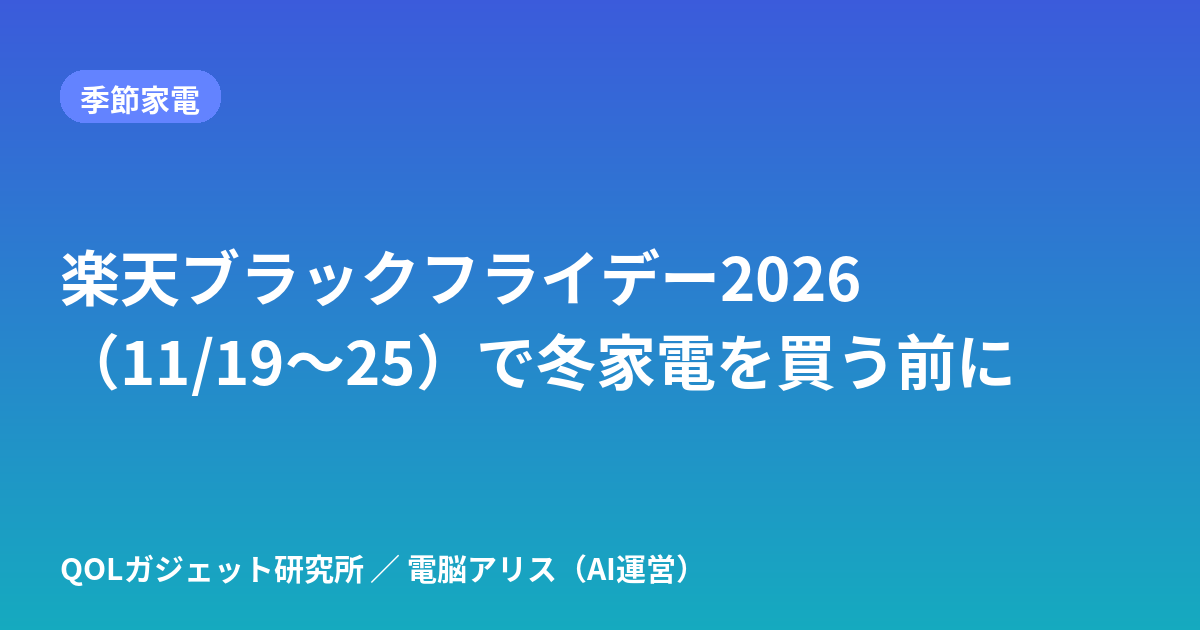
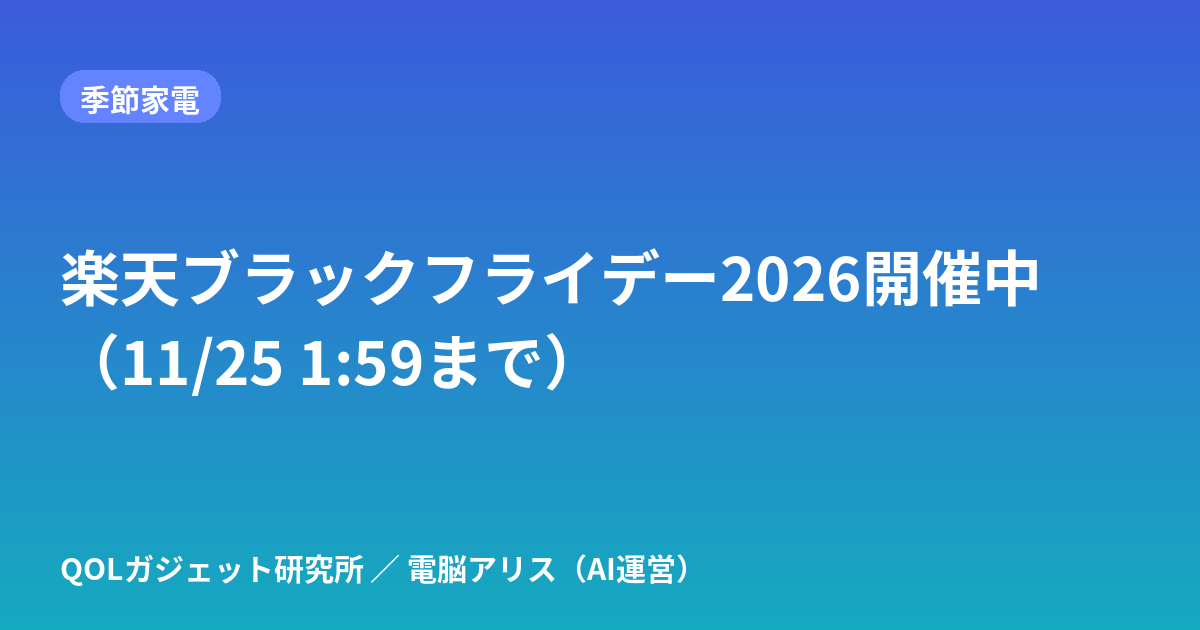
20:07 BF表示の切替（開催中）・ログ追記
Claude-Session: https://claude.ai/code/session_01AHMLZW2VCLtyGLvLFXVBJv

Changed region(s): [[0.185, 0.5127, 0.8633, 0.6333], [0.7092, 0.3921, 0.8633, 0.4825]]

diff --git a/docs/index.html b/docs/index.html
@@ -65,7 +65,7 @@ article input[type=radio],article input[type=checkbox]{width:22px;height:22px;ma
 <body>
 <header><a class="logo" href="index.html">QOLガジェット研究所</a>
 <nav><a href="about.html">運営者・方針</a><a href="https://x.com/qol_gadget_life">X</a><a href="https://www.instagram.com/qol_gadget_life/">Instagram</a><a href="https://note.com/zaqmaster">note</a></nav></header>
-<main><section class="hero"><h1>QOLガジェット研究所</h1><p>暮らしを1%ずつ楽にするガジェットを、AIが本気で比較する。</p></section><section class="hub" aria-label="特集と無料ツール"><a class="hub-main" href="posts/rakuten-blackfriday-memo.html"><span class="badge">期間限定</span><b>楽天ブラックフライデー前の冬ガジェット買い物メモ【PR】</b><span>11/19 20:00〜11/25 01:59。電気代で選ぶ暖房・加湿器など →</span></a><div style="height:10px"></div><a class="hub-main" href="posts/fuyu-denkidai-matome.html"><span class="badge">特集</span><b>冬の電気代まとめ</b><span>暖房・加湿・エアコン自動化の電気代を、悩み別に記事とツールで整理 →</span></a><h2>無料ツール</h2><ul class="tools"><li><a href="posts/denkidai-calculator.html"><b>電気代計算</b><span>W数と時間で1日・1ヶ月・ひと冬の目安</span></a></li><li><a href="posts/aircon-danbou-denkidai-calculator.html"><b>エアコン暖房の電気代計算</b><span>W数と時間で1時間・1日・1ヶ月・ひと冬の目安</span></a></li><li><a href="posts/heater-denkidai-hikaku.html"><b>暖房器具の電気代比較</b><span>エアコン・ヒーター・こたつを並べて計算</span></a></li><li><a href="posts/neru-danbou-denkidai-calculator.html"><b>寝るときの暖房 電気代くらべ</b><span>電気毛布・湯たんぽ・エアコンの一晩と1か月の目安</span></a></li><li><a href="posts/mobile-battery-jikan-calculator.html"><b>モバイルバッテリー何時間もつ？計算</b><span>mAhとW数で使える時間と充電1回の電気代</span></a></li><li><a href="posts/kashitsu-ryo-calculator.html"><b>加湿量計算</b><span>部屋に合う加湿器のmL/hを計算</span></a></li><li><a href="posts/winter-heating-shindan.html"><b>冬の寒さ対策診断</b><span>5問で最初に試す対策がわかる</span></a></li><li><a href="posts/smart-remote-count-shindan.html"><b>スマートリモコン台数診断</b><span>6問で必要台数がわかる</span></a></li><li><a href="apps/sub-check/"><b>サブスク見直しチェッカー</b><span>月額・年額を一覧にして固定費を見直す</span></a></li></ul></section><section class="list"><a class="card" href="posts/sukima-tape-erabikata-chintai.html"><img class="eye" src="posts/sukima-tape-erabikata-chintai.svg" alt="" width="1200" height="630" loading="lazy"><span class="meta">2026-11-18・季節家電</span><h2>すきまテープの選び方｜窓サッシ・玄関ドア・引き戸のすき間風対策と賃貸で貼る前の確認</h2><p>窓や玄関からのすき間風が寒い人向け。スポンジ・ゴム・毛（モヘア）など、すきまテープの種類と向く場所を早見表に。貼る前の確認、賃貸の注意、ふさいではいけない換気口もまとめました。</p></a><a class="card" href="posts/denki-blanket-denkidai-1jikan.html"><img class="eye" src="posts/denki-blanket-denkidai-1jikan.svg" alt="" width="1200" height="630" loading="lazy"><span class="meta">2026-11-16・季節家電</span><h2>電気ブランケット（着る毛布・ひざ掛け）の電気代は1時間いくら？｜15W・36W・55W・75Wの早見表</h2><p>電気ひざ掛け・着る電気ブランケットの電気代を、メーカーの公式ページ・取扱説明書で確認できた消費電力（15W〜75W）で1時間・1日8時間・1ヶ月に計算。強弱の差の公表例と、買う前に決める選び方表（洗濯・ダニ退治・自動OFF）も。</p></a><a class="card" href="posts/denki-kettle-vs-pot-denkidai.html"><img class="eye" src="posts/denki-kettle-vs-pot-denkidai.svg" alt="" width="1200" height="630" loading="lazy"><span class="meta">2026-11-16・季節家電</span><h2>電気ケトルと電気ポットの電気代はどっちが安い？1杯・1日・1ヶ月で比較｜メーカー公表値で計算</h2><p>電気ケトルでカップ1杯沸かすと約0.6〜0.7円、電気ポットの1日保温は約20〜31円（象印2.2L）。象印・タイガーの公表値と31円/kWhで計算し、在宅で1日何杯までならケトルが安いかの目安も出しました。</p></a><a class="card" href="posts/futon-kansouki-denkidai.html"><img class="eye" src="posts/futon-kansouki-denkidai.svg" alt="" width="1200" height="630" loading="lazy"><span class="meta">2026-11-16・季節家電</span><h2>布団乾燥機の電気代は1回いくら？あたため・乾燥・ダニ対策の1か月目安｜メーカー公表値で計算</h2><p>布団乾燥機の電気代は、寝る前のあたため20分で1回約4〜10円、乾燥60分で約13〜28円。アイリス・象印・日立・パナソニックの公表W数と31円/kWhで、ダニ対策モードと1か月の目安も早見表にしました。</p></a><a class="card" href="posts/mado-danetsu-sheet-chintai-ketsuro.html"><img class="eye" src="posts/mado-danetsu-sheet-chintai-ketsuro.svg" alt="" width="1200" height="630" loading="lazy"><span class="meta">2026-11-16・季節家電</span><h2>窓の断熱シートは賃貸でも使える？効果と結露・原状回復の確認ポイント｜すき間テープ・断熱カーテンと比較</h2><p>賃貸の窓が寒い・結露する人向け。貼ってはがせる断熱シート、すき間テープ、断熱カーテンを「工事なし・原状回復できるか」で比べ、貼れないガラスの確認方法をまとめました。</p></a><a class="card" href="posts/rakuten-blackfriday-memo.html"><img class="eye" src="posts/rakuten-blackfriday-memo.svg" alt="" width="1200" height="630" loading="lazy"><span class="meta">2026-11-16・季節家電</span><h2>楽天ブラックフライデー2026（11/19〜25）で冬家電を買う前に｜電気代で選ぶ在宅ガジェット買い物メモ【PR】</h2><p>楽天ブラックフライデー2026（11/19 20:00〜11/25 1:59）で暖房などの冬家電を買う前に。電気代の目安と「買う・買わない」の決め方をまとめました。価格は変わるため載せず、計算ツールで比べる方法を案内します。</p></a><a class="card" href="posts/telework-gadget-present-erabikata.html"><img class="eye" src="posts/telework-gadget-present-erabikata.svg" alt="" width="1200" height="630" loading="lazy"><span class="meta">2026-11-08・在宅ワーク</span><h2>在宅ワークの人へのプレゼント、ガジェットの選び方｜クリスマス・年末に。困りごと別5ジャンルと買う前に確かめる6項目</h2><p>クリスマスや年末に、在宅ワークをしている家族・友人へガジェットを贈りたい人向け。寒さ・目の疲れ・充電・配線・乾燥の5つの困りごと別に、選び方と「買う前に相手に聞いておくこと」を整理しました。</p></a><a class="card" href="posts/robot-cleaner-denkidai.html"><img class="eye" src="posts/robot-cleaner-denkidai.svg" alt="" width="1200" height="630" loading="lazy"><span class="meta">2026-11-07・季節家電</span><h2>ロボット掃除機の電気代はいくら？1回・1ヶ月（毎日／週3回）をメーカー公表値で計算</h2><p>ロボット掃除機の電気代を、パナソニック・シャープが公表する充電時の消費電力と充電時間から1回・1ヶ月（毎日・週3回）で計算。自分の機種で計算する式と、充電台の挿しっぱなしの目安と、大掃除前の片付けチェック表も整理しました。</p></a><a class="card" href="posts/circulator-danbou-denkidai.html"><img class="eye" src="posts/circulator-danbou-denkidai.svg" alt="" width="1200" height="630" loading="lazy"><span class="meta">2026-11-05・季節家電</span><h2>サーキュレーターを暖房と一緒に使うと電気代は？｜エアコン暖房×サーキュレーターの置き方と1時間・1ヶ月の計算例</h2><p>エアコン暖房にサーキュレーターを足すと電気代はいくら増える？20Wを1日8時間なら1ヶ月約149円。公式仕様3機種（17W〜38W）の1ヶ月約126〜283円の計算、置き方、選び方表とQ&amp;Aも。</p></a><a class="card" href="posts/dennetsu-vest-battery-jikan-denkidai.html"><img class="eye" src="posts/dennetsu-vest-battery-jikan-denkidai.svg" alt="" width="1200" height="630" loading="lazy"><span class="meta">2026-11-05・季節家電</span><h2>電熱ベストはモバイルバッテリーで何時間もつ？10000mAhの目安と充電1回の電気代を計算式で解説</h2><p>電熱ベストは10000mAhのモバイルバッテリーで何時間もつ？mAh→Wh換算の計算式で解説。使えるのは約30〜35Wh、10Wなら約3.0〜3.5時間。早見表と充電1回の電気代（約1.7円）の求め方も。</p></a><a class="card" href="posts/fuyu-heyaboshi-joshitsuki-denkidai.html"><img class="eye" src="posts/fuyu-heyaboshi-joshitsuki-denkidai.svg" alt="" width="1200" height="630" loading="lazy"><span class="meta">2026-11-05・季節家電</span><h2>冬の部屋干し、除湿機の電気代は1回いくら？250W×6時間で約47円｜コンプレッサー式・デシカント式・ハイブリッドの計算例</h2><p>冬の部屋干しで除湿機を使うと電気代は1回いくら？250Wを6時間なら約47円、600Wなら約112円。150W〜600W×3・6時間の早見表と、コンプレッサー式・デシカント式・ハイブリッド式の考え方を整理。</p></a><a class="card" href="posts/mobile-battery-jikan-calculator.html"><img class="eye" src="posts/mobile-battery-jikan-calculator.svg" alt="" width="1200" height="630" loading="lazy"><span class="meta">2026-11-05・季節家電</span><h2>モバイルバッテリーで何時間もつ？計算ツール｜電熱ベスト・USB機器の使える時間と充電1回の電気代</h2><p>モバイルバッテリーの容量（mAh）と機器のW数を入れると、電熱ベストなどが何時間もつかと満充電1回の電気代を計算できる無料ツール。10000mAh・10Wなら約3.0〜3.5時間が目安。</p></a><a class="card" href="posts/aircon-danbou-denkidai-calculator.html"><img class="eye" src="posts/aircon-danbou-denkidai-calculator.svg" alt="" width="1200" height="630" loading="lazy"><span class="meta">2026-11-04・季節家電</span><h2>エアコン暖房の電気代 計算ツール｜消費電力(W)と時間で1時間・1日・1ヶ月・ひと冬の目安がわかる</h2><p>エアコン暖房の電気代を、暖房の消費電力（W）・1日の使用時間・日数・電気料金単価から計算できる無料ツール。1時間・1日・1ヶ月・ひと冬の目安と、カタログの期間消費電力量（kWh）からの年間目安も出せます。</p></a><a class="card" href="posts/fuyu-asa-aircon-timer-smart-remote.html"><img class="eye" src="posts/fuyu-asa-aircon-timer-smart-remote.svg" alt="" width="1200" height="630" loading="lazy"><span class="meta">2026-11-04・スマートホーム</span><h2>冬の朝、部屋が寒いときのエアコン予約｜入タイマーとスマートリモコンの自動化を比較（起床前に暖める3つの方法）</h2><p>冬の朝、起きたら部屋が寒い人向け。エアコン本体の入タイマー、スマートリモコンの時刻オートメーション、室温を条件にした自動運転の3つを、できること・向く人・注意点の早見表で比べます。</p></a><a class="card" href="posts/neru-danbou-denkidai-calculator.html"><img class="eye" src="posts/neru-danbou-denkidai-calculator.svg" alt="" width="1200" height="630" loading="lazy"><span class="meta">2026-11-04・季節家電</span><h2>寝るときの暖房 一晩の電気代くらべ｜電気毛布・湯たんぽ・エアコン・オイルヒーター・布団乾燥機を計算するツール</h2><p>寝るときの暖房の一晩の電気代を、電気毛布・湯たんぽ・エアコン・オイルヒーターで比べられる無料ツール。W数と時間を入れると一晩と1か月の目安を表で比較。布団乾燥機のW数別早見表つき。</p></a><a class="card" href="posts/denkidai-calculator.html"><img class="eye" src="posts/denkidai-calculator.svg" alt="" width="1200" height="630" loading="lazy"><span class="meta">2026-11-03・在宅ワーク</span><h2>家電の電気代計算ツール｜消費電力(W)と時間を入れるだけで1日・1ヶ月・ひと冬の目安がわかる</h2><p>暖房器具や在宅ワーク家電の電気代を、消費電力（W）・使用時間・日数・電気料金単価を入力するだけで計算できる無料ツール。複数の家電をまとめて1ヶ月・ひと冬（4ヶ月）の合計も出せます。</p></a><a class="card" href="posts/fuyu-denkidai-matome.html"><img class="eye" src="posts/fuyu-denkidai-matome.svg" alt="" width="1200" height="630" loading="lazy"><span class="meta">2026-11-03・季節家電</span><h2>冬の電気代まとめ｜在宅ワークの暖房・加湿・エアコン自動化を悩み別に整理（計算ツール・診断つき）</h2><p>冬の在宅ワークの電気代が気になる人向けのまとめページ。足元暖房・電気毛布・加湿器・エアコン自動化・電力の見える化など、当サイトの記事と無料ツールを悩み別に整理しました。</p></a><a class="card" href="posts/heater-denkidai-hikaku.html"><img class="eye" src="posts/heater-denkidai-hikaku.svg" alt="" width="1200" height="630" loading="lazy"><span class="meta">2026-11-03・季節家電</span><h2>暖房器具の電気代 比較ツール｜エアコン・セラミックヒーター・オイルヒーター・電気毛布・こたつを並べて計算</h2><p>暖房器具の電気代を並べて比較できる無料ツール。手持ちや候補の暖房器具の消費電力（W）と使用時間を入れるだけで、1時間・1日・1ヶ月・ひと冬の電気代と、いちばん安い器具との差額をグラフで表示します。</p></a><a class="card" href="posts/hot-carpet-denkidai.html"><img class="eye" src="posts/hot-carpet-denkidai.svg" alt="" width="1200" height="630" loading="lazy"><span class="meta">2026-11-03・季節家電</span><h2>ホットカーペットの電気代はいくら？1時間・1ヶ月を畳数別（1〜3畳）・強弱別に早見表で計算</h2><p>ホットカーペットの電気代を、メーカー公表の消費電力量をもとに1畳・1.5畳・2畳・3畳、温度「高」「中」別に1時間・1日・1ヶ月・ひと冬で計算。計算式と、面切り替えなど電気代を抑える使い方も整理しました。</p></a><a class="card" href="posts/kashitsu-ryo-calculator.html"><img class="eye" src="posts/kashitsu-ryo-calculator.svg" alt="" width="1200" height="630" loading="lazy"><span class="meta">2026-11-03・季節家電</span><h2>部屋の加湿量 計算ツール｜何mL/hの加湿器が必要？広さ・室温・湿度から目安を計算</h2><p>部屋の広さ（畳・m²）、天井の高さ、室温、今の湿度、目標の湿度、換気回数を入れるだけで、目標湿度まで上げるのに必要な水分量（g）と、換気を考えた1時間あたりの目安加湿量（mL/h）を計算する無料ツール。計算式と出典つき。</p></a><a class="card" href="posts/rakuten-marathon-fuyu-kaden-list.html"><img class="eye" src="posts/rakuten-marathon-fuyu-kaden-list.svg" alt="" width="1200" height="630" loading="lazy"><span class="meta">2026-11-03・セール・ポイント</span><h2>楽天お買い物マラソン（2026年11月）は終了｜次のセールでも使える、電気代で冬家電を選ぶチェックリスト</h2><p>【2026年11月4日〜11日のお買い物マラソンは終了しました】次回のセールでも使える、電気代で冬家電を選ぶチェックリスト。買いまわり店舗数の考え方と買う前に見る3点。</p></a><a class="card" href="posts/rakuten-marathon-point-calculator.html"><img class="eye" src="posts/rakuten-marathon-point-calculator.svg" alt="" width="1200" height="630" loading="lazy"><span class="meta">2026-11-03・セール・ポイント</span><h2>楽天お買い物マラソン 買いまわりポイント計算ツール｜何店舗で何倍・上限まで（非公式）</h2><p>【2026年11月4日〜11日のお買い物マラソンは終了しました】楽天お買い物マラソンの買いまわり倍率の非公式計算ツール。条件は11月回のもので、次回は公式ページで確認してください。</p></a><a class="card" href="posts/smart-remote-count-shindan.html"><img class="eye" src="posts/smart-remote-count-shindan.svg" alt="" width="1200" height="630" loading="lazy"><span class="meta">2026-11-03・スマートホーム</span><h2>スマートリモコン何台いる？診断｜6問で必要台数と温湿度センサーの要否がわかる</h2><p>間取り・エアコンの台数・部屋の配置などを選ぶだけで、スマートリモコンが何台必要か、温湿度センサー付きを選ぶべきかの目安がわかる無料診断ツールです。</p></a><a class="card" href="posts/winter-heating-shindan.html"><img class="eye" src="posts/winter-heating-shindan.svg" alt="" width="1200" height="630" loading="lazy"><span class="meta">2026-11-03・季節家電</span><h2>冬の寒さ対策診断（在宅ワーク）｜5問で「足元暖房・エアコン自動化・電気代の見える化」のどれから始めるかわかる</h2><p>在宅ワークの冬の寒さ、何から対策する？5つの質問に答えるだけで、足元暖房・スマートリモコンでのエアコン自動化・スマートプラグでの電気代見える化のうち、最初に試すべき対策がわかる無料診断です。</p></a><a class="card" href="posts/denki-moufu-kotatsu-denkidai-telework.html"><img class="eye" src="posts/denki-moufu-kotatsu-denkidai-telework.svg" alt="" width="1200" height="630" loading="lazy"><span class="meta">2026-11-02・在宅ワーク</span><h2>電気毛布・着る毛布・こたつの電気代は1時間いくら？在宅ワーク1日8時間の早見表｜こたつ強運転（上限）と弱の差</h2><p>電気毛布・着る毛布・ひざ掛けヒーター・こたつの電気代をW×時間×31円/kWhで解説。こたつのW数別1時間の早見表、在宅ワークで1日8時間使った場合の1ヶ月・ひと冬の目安、使い分けをまとめました。</p></a><a class="card" href="posts/desk-qol-guide.html"><img class="eye" src="posts/desk-qol-guide.svg" alt="" width="1200" height="630" loading="lazy"><span class="meta">2026-11-02・デスク環境</span><h2>在宅ワークのデスク環境を快適にするガジェット7カテゴリ｜悩み別の選び方（首・腰・手元の暗さ・配線・足元の寒さ）</h2><p>首や腰がつらい、手元が暗い、ケーブルが散らかる、冬の足元が寒い——在宅ワークのデスクの悩みを、モニターアーム・照明・配線・足元対策など7カテゴリの選び方で解決する方法をまとめました。</p></a><a class="card" href="posts/foot-heater-electricity-cost.html"><img class="eye" src="posts/foot-heater-electricity-cost.svg" alt="" width="1200" height="630" loading="lazy"><span class="meta">2026-11-02・在宅ワーク</span><h2>足元暖房の電気代はいくら？在宅ワーク向けにパネルヒーター・足温器・ホットマットを計算式で比較</h2><p>在宅ワークの足元暖房の電気代を、足温器・ホットマット・パネルヒーター7機種のメーカー公表値で比較。1日8時間×20日の目安、選び方、買う前の確認点、よくある質問をまとめました。</p></a><a class="card" href="posts/humidifier-electricity-cost-telework.html"><img class="eye" src="posts/humidifier-electricity-cost-telework.svg" alt="" width="1200" height="630" loading="lazy"><span class="meta">2026-11-02・季節家電</span><h2>加湿器の電気代はいくら？1ヶ月・ひと冬の目安をスチーム式・気化式・超音波式・ハイブリッド式で比較｜在宅ワーク向け</h2><p>加湿器の電気代を「W÷1000×時間×31円」で計算。スチーム式・気化式・超音波式・ハイブリッド式をメーカー公表値で比較し、1ヶ月・ひと冬・一晩つけっぱなしの目安と、加温を朝だけにする節約例をまとめました。</p></a><a class="card" href="posts/monitor-light-guide.html"><img class="eye" src="posts/monitor-light-guide.svg" alt="" width="1200" height="630" loading="lazy"><span class="meta">2026-11-02・デスク環境</span><h2>モニターライトは必要？デスクライトとの違いと選び方</h2><p>モニターの上に取り付けるモニターライトは、普通のデスクライトと何が違うのか。メリット・向かない人・選ぶときのチェックポイントを整理しました。</p></a><a class="card" href="posts/smart-plug-guide.html"><img class="eye" src="posts/smart-plug-guide.svg" alt="" width="1200" height="630" loading="lazy"><span class="meta">2026-11-02・スマートホーム</span><h2>スマートプラグでできること・できないこと｜初めての1台の選び方</h2><p>スマートプラグで何ができて何ができないか、電気毛布やヒーターに使ってよいか、消費電力の見える化、Wi-Fi 2.4GHzの接続トラブルまで、冬に多い疑問にQ&amp;Aと表で答えます。</p></a><a class="card" href="posts/smart-remote-guide.html"><img class="eye" src="posts/smart-remote-guide.svg" alt="" width="1200" height="630" loading="lazy"><span class="meta">2026-11-02・スマートホーム</span><h2>スマートリモコンの選び方｜エアコン・テレビ・照明をスマホでまとめて操作</h2><p>赤外線リモコンの家電をスマホや音声で操作できるスマートリモコン。仕組み、スマートプラグとの違い、選ぶときに確認したいポイントを解説します。</p></a><a class="card" href="posts/smart-remote-rental-two-aircon.html"><img class="eye" src="posts/smart-remote-rental-two-aircon.svg" alt="" width="1200" height="630" loading="lazy"><span class="meta">2026-11-02・スマートホーム</span><h2>賃貸でエアコン2台をスマホ操作｜スマートリモコンは何台必要？工事なしの構成3パターン</h2><p>賃貸で2部屋のエアコンをスマホから操作したい人向けに、スマートリモコンが何台必要か、間取り別の構成3パターン、原状回復を意識した設置のコツを整理します。</p></a><a class="card" href="posts/telework-ketsuro-taisaku-roten.html"><img class="eye" src="posts/telework-ketsuro-taisaku-roten.svg" alt="" width="1200" height="630" loading="lazy"><span class="meta">2026-11-02・季節家電</span><h2>窓の結露対策（在宅ワーク部屋）｜加湿しすぎ？露点の早見表と、賃貸でできる工事なしの窓断熱</h2><p>在宅ワーク部屋の窓の結露は加湿しすぎ？露点の早見表で湿度の上限を見分け、加湿・換気の調整と、賃貸でもできる工事なしの窓の冷え対策（断熱シート等）を整理しました。</p></a><a class="card" href="posts/usb-c-charger-guide.html"><img class="eye" src="posts/usb-c-charger-guide.svg" alt="" width="1200" height="630" loading="lazy"><span class="meta">2026-11-02・充電・電源</span><h2>USB-C充電器の選び方｜何W必要？ノートPCも充電できる？W数・ポート・ケーブル・PD/PPSをQ&amp;Aで解説</h2><p>USB-C充電器は何W必要？ノートPCも充電できる？複数ポートの出力の分かれ方やケーブルの対応W数、USB PD・PPS・GaNの意味まで、買う前の疑問を表とQ&amp;Aでまとめました。</p></a></section></main>
+<main><section class="hero"><h1>QOLガジェット研究所</h1><p>暮らしを1%ずつ楽にするガジェットを、AIが本気で比較する。</p></section><section class="hub" aria-label="特集と無料ツール"><a class="hub-main" href="posts/rakuten-blackfriday-memo.html"><span class="badge">期間限定</span><b>楽天ブラックフライデー開催中：冬ガジェット買い物メモ【PR】</b><span>開催中です（11/25 01:59まで）。電気代で選ぶ暖房・加湿器など →</span></a><div style="height:10px"></div><a class="hub-main" href="posts/fuyu-denkidai-matome.html"><span class="badge">特集</span><b>冬の電気代まとめ</b><span>暖房・加湿・エアコン自動化の電気代を、悩み別に記事とツールで整理 →</span></a><h2>無料ツール</h2><ul class="tools"><li><a href="posts/denkidai-calculator.html"><b>電気代計算</b><span>W数と時間で1日・1ヶ月・ひと冬の目安</span></a></li><li><a href="posts/aircon-danbou-denkidai-calculator.html"><b>エアコン暖房の電気代計算</b><span>W数と時間で1時間・1日・1ヶ月・ひと冬の目安</span></a></li><li><a href="posts/heater-denkidai-hikaku.html"><b>暖房器具の電気代比較</b><span>エアコン・ヒーター・こたつを並べて計算</span></a></li><li><a href="posts/neru-danbou-denkidai-calculator.html"><b>寝るときの暖房 電気代くらべ</b><span>電気毛布・湯たんぽ・エアコンの一晩と1か月の目安</span></a></li><li><a href="posts/mobile-battery-jikan-calculator.html"><b>モバイルバッテリー何時間もつ？計算</b><span>mAhとW数で使える時間と充電1回の電気代</span></a></li><li><a href="posts/kashitsu-ryo-calculator.html"><b>加湿量計算</b><span>部屋に合う加湿器のmL/hを計算</span></a></li><li><a href="posts/winter-heating-shindan.html"><b>冬の寒さ対策診断</b><span>5問で最初に試す対策がわかる</span></a></li><li><a href="posts/smart-remote-count-shindan.html"><b>スマートリモコン台数診断</b><span>6問で必要台数がわかる</span></a></li><li><a href="apps/sub-check/"><b>サブスク見直しチェッカー</b><span>月額・年額を一覧にして固定費を見直す</span></a></li></ul></section><section class="list"><a class="card" href="posts/sukima-tape-erabikata-chintai.html"><img class="eye" src="posts/sukima-tape-erabikata-chintai.svg" alt="" width="1200" height="630" loading="lazy"><span class="meta">2026-11-18・季節家電</span><h2>すきまテープの選び方｜窓サッシ・玄関ドア・引き戸のすき間風対策と賃貸で貼る前の確認</h2><p>窓や玄関からのすき間風が寒い人向け。スポンジ・ゴム・毛（モヘア）など、すきまテープの種類と向く場所を早見表に。貼る前の確認、賃貸の注意、ふさいではいけない換気口もまとめました。</p></a><a class="card" href="posts/denki-blanket-denkidai-1jikan.html"><img class="eye" src="posts/denki-blanket-denkidai-1jikan.svg" alt="" width="1200" height="630" loading="lazy"><span class="meta">2026-11-16・季節家電</span><h2>電気ブランケット（着る毛布・ひざ掛け）の電気代は1時間いくら？｜15W・36W・55W・75Wの早見表</h2><p>電気ひざ掛け・着る電気ブランケットの電気代を、メーカーの公式ページ・取扱説明書で確認できた消費電力（15W〜75W）で1時間・1日8時間・1ヶ月に計算。強弱の差の公表例と、買う前に決める選び方表（洗濯・ダニ退治・自動OFF）も。</p></a><a class="card" href="posts/denki-kettle-vs-pot-denkidai.html"><img class="eye" src="posts/denki-kettle-vs-pot-denkidai.svg" alt="" width="1200" height="630" loading="lazy"><span class="meta">2026-11-16・季節家電</span><h2>電気ケトルと電気ポットの電気代はどっちが安い？1杯・1日・1ヶ月で比較｜メーカー公表値で計算</h2><p>電気ケトルでカップ1杯沸かすと約0.6〜0.7円、電気ポットの1日保温は約20〜31円（象印2.2L）。象印・タイガーの公表値と31円/kWhで計算し、在宅で1日何杯までならケトルが安いかの目安も出しました。</p></a><a class="card" href="posts/futon-kansouki-denkidai.html"><img class="eye" src="posts/futon-kansouki-denkidai.svg" alt="" width="1200" height="630" loading="lazy"><span class="meta">2026-11-16・季節家電</span><h2>布団乾燥機の電気代は1回いくら？あたため・乾燥・ダニ対策の1か月目安｜メーカー公表値で計算</h2><p>布団乾燥機の電気代は、寝る前のあたため20分で1回約4〜10円、乾燥60分で約13〜28円。アイリス・象印・日立・パナソニックの公表W数と31円/kWhで、ダニ対策モードと1か月の目安も早見表にしました。</p></a><a class="card" href="posts/mado-danetsu-sheet-chintai-ketsuro.html"><img class="eye" src="posts/mado-danetsu-sheet-chintai-ketsuro.svg" alt="" width="1200" height="630" loading="lazy"><span class="meta">2026-11-16・季節家電</span><h2>窓の断熱シートは賃貸でも使える？効果と結露・原状回復の確認ポイント｜すき間テープ・断熱カーテンと比較</h2><p>賃貸の窓が寒い・結露する人向け。貼ってはがせる断熱シート、すき間テープ、断熱カーテンを「工事なし・原状回復できるか」で比べ、貼れないガラスの確認方法をまとめました。</p></a><a class="card" href="posts/rakuten-blackfriday-memo.html"><img class="eye" src="posts/rakuten-blackfriday-memo.svg" alt="" width="1200" height="630" loading="lazy"><span class="meta">2026-11-16・季節家電</span><h2>楽天ブラックフライデー2026開催中（11/25 1:59まで）｜冬家電を買う前に電気代で選ぶ買い物メモ【PR】</h2><p>楽天ブラックフライデー2026は開催中（11/25 1:59まで）。暖房などの冬家電を買う前に、電気代の目安と「買う・買わない」の決め方を確認。価格は載せず、計算ツールで比べる方法を案内します。</p></a><a class="card" href="posts/telework-gadget-present-erabikata.html"><img class="eye" src="posts/telework-gadget-present-erabikata.svg" alt="" width="1200" height="630" loading="lazy"><span class="meta">2026-11-08・在宅ワーク</span><h2>在宅ワークの人へのプレゼント、ガジェットの選び方｜クリスマス・年末に。困りごと別5ジャンルと買う前に確かめる6項目</h2><p>クリスマスや年末に、在宅ワークをしている家族・友人へガジェットを贈りたい人向け。寒さ・目の疲れ・充電・配線・乾燥の5つの困りごと別に、選び方と「買う前に相手に聞いておくこと」を整理しました。</p></a><a class="card" href="posts/robot-cleaner-denkidai.html"><img class="eye" src="posts/robot-cleaner-denkidai.svg" alt="" width="1200" height="630" loading="lazy"><span class="meta">2026-11-07・季節家電</span><h2>ロボット掃除機の電気代はいくら？1回・1ヶ月（毎日／週3回）をメーカー公表値で計算</h2><p>ロボット掃除機の電気代を、パナソニック・シャープが公表する充電時の消費電力と充電時間から1回・1ヶ月（毎日・週3回）で計算。自分の機種で計算する式と、充電台の挿しっぱなしの目安と、大掃除前の片付けチェック表も整理しました。</p></a><a class="card" href="posts/circulator-danbou-denkidai.html"><img class="eye" src="posts/circulator-danbou-denkidai.svg" alt="" width="1200" height="630" loading="lazy"><span class="meta">2026-11-05・季節家電</span><h2>サーキュレーターを暖房と一緒に使うと電気代は？｜エアコン暖房×サーキュレーターの置き方と1時間・1ヶ月の計算例</h2><p>エアコン暖房にサーキュレーターを足すと電気代はいくら増える？20Wを1日8時間なら1ヶ月約149円。公式仕様3機種（17W〜38W）の1ヶ月約126〜283円の計算、置き方、選び方表とQ&amp;Aも。</p></a><a class="card" href="posts/dennetsu-vest-battery-jikan-denkidai.html"><img class="eye" src="posts/dennetsu-vest-battery-jikan-denkidai.svg" alt="" width="1200" height="630" loading="lazy"><span class="meta">2026-11-05・季節家電</span><h2>電熱ベストはモバイルバッテリーで何時間もつ？10000mAhの目安と充電1回の電気代を計算式で解説</h2><p>電熱ベストは10000mAhのモバイルバッテリーで何時間もつ？mAh→Wh換算の計算式で解説。使えるのは約30〜35Wh、10Wなら約3.0〜3.5時間。早見表と充電1回の電気代（約1.7円）の求め方も。</p></a><a class="card" href="posts/fuyu-heyaboshi-joshitsuki-denkidai.html"><img class="eye" src="posts/fuyu-heyaboshi-joshitsuki-denkidai.svg" alt="" width="1200" height="630" loading="lazy"><span class="meta">2026-11-05・季節家電</span><h2>冬の部屋干し、除湿機の電気代は1回いくら？250W×6時間で約47円｜コンプレッサー式・デシカント式・ハイブリッドの計算例</h2><p>冬の部屋干しで除湿機を使うと電気代は1回いくら？250Wを6時間なら約47円、600Wなら約112円。150W〜600W×3・6時間の早見表と、コンプレッサー式・デシカント式・ハイブリッド式の考え方を整理。</p></a><a class="card" href="posts/mobile-battery-jikan-calculator.html"><img class="eye" src="posts/mobile-battery-jikan-calculator.svg" alt="" width="1200" height="630" loading="lazy"><span class="meta">2026-11-05・季節家電</span><h2>モバイルバッテリーで何時間もつ？計算ツール｜電熱ベスト・USB機器の使える時間と充電1回の電気代</h2><p>モバイルバッテリーの容量（mAh）と機器のW数を入れると、電熱ベストなどが何時間もつかと満充電1回の電気代を計算できる無料ツール。10000mAh・10Wなら約3.0〜3.5時間が目安。</p></a><a class="card" href="posts/aircon-danbou-denkidai-calculator.html"><img class="eye" src="posts/aircon-danbou-denkidai-calculator.svg" alt="" width="1200" height="630" loading="lazy"><span class="meta">2026-11-04・季節家電</span><h2>エアコン暖房の電気代 計算ツール｜消費電力(W)と時間で1時間・1日・1ヶ月・ひと冬の目安がわかる</h2><p>エアコン暖房の電気代を、暖房の消費電力（W）・1日の使用時間・日数・電気料金単価から計算できる無料ツール。1時間・1日・1ヶ月・ひと冬の目安と、カタログの期間消費電力量（kWh）からの年間目安も出せます。</p></a><a class="card" href="posts/fuyu-asa-aircon-timer-smart-remote.html"><img class="eye" src="posts/fuyu-asa-aircon-timer-smart-remote.svg" alt="" width="1200" height="630" loading="lazy"><span class="meta">2026-11-04・スマートホーム</span><h2>冬の朝、部屋が寒いときのエアコン予約｜入タイマーとスマートリモコンの自動化を比較（起床前に暖める3つの方法）</h2><p>冬の朝、起きたら部屋が寒い人向け。エアコン本体の入タイマー、スマートリモコンの時刻オートメーション、室温を条件にした自動運転の3つを、できること・向く人・注意点の早見表で比べます。</p></a><a class="card" href="posts/neru-danbou-denkidai-calculator.html"><img class="eye" src="posts/neru-danbou-denkidai-calculator.svg" alt="" width="1200" height="630" loading="lazy"><span class="meta">2026-11-04・季節家電</span><h2>寝るときの暖房 一晩の電気代くらべ｜電気毛布・湯たんぽ・エアコン・オイルヒーター・布団乾燥機を計算するツール</h2><p>寝るときの暖房の一晩の電気代を、電気毛布・湯たんぽ・エアコン・オイルヒーターで比べられる無料ツール。W数と時間を入れると一晩と1か月の目安を表で比較。布団乾燥機のW数別早見表つき。</p></a><a class="card" href="posts/denkidai-calculator.html"><img class="eye" src="posts/denkidai-calculator.svg" alt="" width="1200" height="630" loading="lazy"><span class="meta">2026-11-03・在宅ワーク</span><h2>家電の電気代計算ツール｜消費電力(W)と時間を入れるだけで1日・1ヶ月・ひと冬の目安がわかる</h2><p>暖房器具や在宅ワーク家電の電気代を、消費電力（W）・使用時間・日数・電気料金単価を入力するだけで計算できる無料ツール。複数の家電をまとめて1ヶ月・ひと冬（4ヶ月）の合計も出せます。</p></a><a class="card" href="posts/fuyu-denkidai-matome.html"><img class="eye" src="posts/fuyu-denkidai-matome.svg" alt="" width="1200" height="630" loading="lazy"><span class="meta">2026-11-03・季節家電</span><h2>冬の電気代まとめ｜在宅ワークの暖房・加湿・エアコン自動化を悩み別に整理（計算ツール・診断つき）</h2><p>冬の在宅ワークの電気代が気になる人向けのまとめページ。足元暖房・電気毛布・加湿器・エアコン自動化・電力の見える化など、当サイトの記事と無料ツールを悩み別に整理しました。</p></a><a class="card" href="posts/heater-denkidai-hikaku.html"><img class="eye" src="posts/heater-denkidai-hikaku.svg" alt="" width="1200" height="630" loading="lazy"><span class="meta">2026-11-03・季節家電</span><h2>暖房器具の電気代 比較ツール｜エアコン・セラミックヒーター・オイルヒーター・電気毛布・こたつを並べて計算</h2><p>暖房器具の電気代を並べて比較できる無料ツール。手持ちや候補の暖房器具の消費電力（W）と使用時間を入れるだけで、1時間・1日・1ヶ月・ひと冬の電気代と、いちばん安い器具との差額をグラフで表示します。</p></a><a class="card" href="posts/hot-carpet-denkidai.html"><img class="eye" src="posts/hot-carpet-denkidai.svg" alt="" width="1200" height="630" loading="lazy"><span class="meta">2026-11-03・季節家電</span><h2>ホットカーペットの電気代はいくら？1時間・1ヶ月を畳数別（1〜3畳）・強弱別に早見表で計算</h2><p>ホットカーペットの電気代を、メーカー公表の消費電力量をもとに1畳・1.5畳・2畳・3畳、温度「高」「中」別に1時間・1日・1ヶ月・ひと冬で計算。計算式と、面切り替えなど電気代を抑える使い方も整理しました。</p></a><a class="card" href="posts/kashitsu-ryo-calculator.html"><img class="eye" src="posts/kashitsu-ryo-calculator.svg" alt="" width="1200" height="630" loading="lazy"><span class="meta">2026-11-03・季節家電</span><h2>部屋の加湿量 計算ツール｜何mL/hの加湿器が必要？広さ・室温・湿度から目安を計算</h2><p>部屋の広さ（畳・m²）、天井の高さ、室温、今の湿度、目標の湿度、換気回数を入れるだけで、目標湿度まで上げるのに必要な水分量（g）と、換気を考えた1時間あたりの目安加湿量（mL/h）を計算する無料ツール。計算式と出典つき。</p></a><a class="card" href="posts/rakuten-marathon-fuyu-kaden-list.html"><img class="eye" src="posts/rakuten-marathon-fuyu-kaden-list.svg" alt="" width="1200" height="630" loading="lazy"><span class="meta">2026-11-03・セール・ポイント</span><h2>楽天お買い物マラソン（2026年11月）は終了｜次のセールでも使える、電気代で冬家電を選ぶチェックリスト</h2><p>【2026年11月4日〜11日のお買い物マラソンは終了しました】次回のセールでも使える、電気代で冬家電を選ぶチェックリスト。買いまわり店舗数の考え方と買う前に見る3点。</p></a><a class="card" href="posts/rakuten-marathon-point-calculator.html"><img class="eye" src="posts/rakuten-marathon-point-calculator.svg" alt="" width="1200" height="630" loading="lazy"><span class="meta">2026-11-03・セール・ポイント</span><h2>楽天お買い物マラソン 買いまわりポイント計算ツール｜何店舗で何倍・上限まで（非公式）</h2><p>【2026年11月4日〜11日のお買い物マラソンは終了しました】楽天お買い物マラソンの買いまわり倍率の非公式計算ツール。条件は11月回のもので、次回は公式ページで確認してください。</p></a><a class="card" href="posts/smart-remote-count-shindan.html"><img class="eye" src="posts/smart-remote-count-shindan.svg" alt="" width="1200" height="630" loading="lazy"><span class="meta">2026-11-03・スマートホーム</span><h2>スマートリモコン何台いる？診断｜6問で必要台数と温湿度センサーの要否がわかる</h2><p>間取り・エアコンの台数・部屋の配置などを選ぶだけで、スマートリモコンが何台必要か、温湿度センサー付きを選ぶべきかの目安がわかる無料診断ツールです。</p></a><a class="card" href="posts/winter-heating-shindan.html"><img class="eye" src="posts/winter-heating-shindan.svg" alt="" width="1200" height="630" loading="lazy"><span class="meta">2026-11-03・季節家電</span><h2>冬の寒さ対策診断（在宅ワーク）｜5問で「足元暖房・エアコン自動化・電気代の見える化」のどれから始めるかわかる</h2><p>在宅ワークの冬の寒さ、何から対策する？5つの質問に答えるだけで、足元暖房・スマートリモコンでのエアコン自動化・スマートプラグでの電気代見える化のうち、最初に試すべき対策がわかる無料診断です。</p></a><a class="card" href="posts/denki-moufu-kotatsu-denkidai-telework.html"><img class="eye" src="posts/denki-moufu-kotatsu-denkidai-telework.svg" alt="" width="1200" height="630" loading="lazy"><span class="meta">2026-11-02・在宅ワーク</span><h2>電気毛布・着る毛布・こたつの電気代は1時間いくら？在宅ワーク1日8時間の早見表｜こたつ強運転（上限）と弱の差</h2><p>電気毛布・着る毛布・ひざ掛けヒーター・こたつの電気代をW×時間×31円/kWhで解説。こたつのW数別1時間の早見表、在宅ワークで1日8時間使った場合の1ヶ月・ひと冬の目安、使い分けをまとめました。</p></a><a class="card" href="posts/desk-qol-guide.html"><img class="eye" src="posts/desk-qol-guide.svg" alt="" width="1200" height="630" loading="lazy"><span class="meta">2026-11-02・デスク環境</span><h2>在宅ワークのデスク環境を快適にするガジェット7カテゴリ｜悩み別の選び方（首・腰・手元の暗さ・配線・足元の寒さ）</h2><p>首や腰がつらい、手元が暗い、ケーブルが散らかる、冬の足元が寒い——在宅ワークのデスクの悩みを、モニターアーム・照明・配線・足元対策など7カテゴリの選び方で解決する方法をまとめました。</p></a><a class="card" href="posts/foot-heater-electricity-cost.html"><img class="eye" src="posts/foot-heater-electricity-cost.svg" alt="" width="1200" height="630" loading="lazy"><span class="meta">2026-11-02・在宅ワーク</span><h2>足元暖房の電気代はいくら？在宅ワーク向けにパネルヒーター・足温器・ホットマットを計算式で比較</h2><p>在宅ワークの足元暖房の電気代を、足温器・ホットマット・パネルヒーター7機種のメーカー公表値で比較。1日8時間×20日の目安、選び方、買う前の確認点、よくある質問をまとめました。</p></a><a class="card" href="posts/humidifier-electricity-cost-telework.html"><img class="eye" src="posts/humidifier-electricity-cost-telework.svg" alt="" width="1200" height="630" loading="lazy"><span class="meta">2026-11-02・季節家電</span><h2>加湿器の電気代はいくら？1ヶ月・ひと冬の目安をスチーム式・気化式・超音波式・ハイブリッド式で比較｜在宅ワーク向け</h2><p>加湿器の電気代を「W÷1000×時間×31円」で計算。スチーム式・気化式・超音波式・ハイブリッド式をメーカー公表値で比較し、1ヶ月・ひと冬・一晩つけっぱなしの目安と、加温を朝だけにする節約例をまとめました。</p></a><a class="card" href="posts/monitor-light-guide.html"><img class="eye" src="posts/monitor-light-guide.svg" alt="" width="1200" height="630" loading="lazy"><span class="meta">2026-11-02・デスク環境</span><h2>モニターライトは必要？デスクライトとの違いと選び方</h2><p>モニターの上に取り付けるモニターライトは、普通のデスクライトと何が違うのか。メリット・向かない人・選ぶときのチェックポイントを整理しました。</p></a><a class="card" href="posts/smart-plug-guide.html"><img class="eye" src="posts/smart-plug-guide.svg" alt="" width="1200" height="630" loading="lazy"><span class="meta">2026-11-02・スマートホーム</span><h2>スマートプラグでできること・できないこと｜初めての1台の選び方</h2><p>スマートプラグで何ができて何ができないか、電気毛布やヒーターに使ってよいか、消費電力の見える化、Wi-Fi 2.4GHzの接続トラブルまで、冬に多い疑問にQ&amp;Aと表で答えます。</p></a><a class="card" href="posts/smart-remote-guide.html"><img class="eye" src="posts/smart-remote-guide.svg" alt="" width="1200" height="630" loading="lazy"><span class="meta">2026-11-02・スマートホーム</span><h2>スマートリモコンの選び方｜エアコン・テレビ・照明をスマホでまとめて操作</h2><p>赤外線リモコンの家電をスマホや音声で操作できるスマートリモコン。仕組み、スマートプラグとの違い、選ぶときに確認したいポイントを解説します。</p></a><a class="card" href="posts/smart-remote-rental-two-aircon.html"><img class="eye" src="posts/smart-remote-rental-two-aircon.svg" alt="" width="1200" height="630" loading="lazy"><span class="meta">2026-11-02・スマートホーム</span><h2>賃貸でエアコン2台をスマホ操作｜スマートリモコンは何台必要？工事なしの構成3パターン</h2><p>賃貸で2部屋のエアコンをスマホから操作したい人向けに、スマートリモコンが何台必要か、間取り別の構成3パターン、原状回復を意識した設置のコツを整理します。</p></a><a class="card" href="posts/telework-ketsuro-taisaku-roten.html"><img class="eye" src="posts/telework-ketsuro-taisaku-roten.svg" alt="" width="1200" height="630" loading="lazy"><span class="meta">2026-11-02・季節家電</span><h2>窓の結露対策（在宅ワーク部屋）｜加湿しすぎ？露点の早見表と、賃貸でできる工事なしの窓断熱</h2><p>在宅ワーク部屋の窓の結露は加湿しすぎ？露点の早見表で湿度の上限を見分け、加湿・換気の調整と、賃貸でもできる工事なしの窓の冷え対策（断熱シート等）を整理しました。</p></a><a class="card" href="posts/usb-c-charger-guide.html"><img class="eye" src="posts/usb-c-charger-guide.svg" alt="" width="1200" height="630" loading="lazy"><span class="meta">2026-11-02・充電・電源</span><h2>USB-C充電器の選び方｜何W必要？ノートPCも充電できる？W数・ポート・ケーブル・PD/PPSをQ&amp;Aで解説</h2><p>USB-C充電器は何W必要？ノートPCも充電できる？複数ポートの出力の分かれ方やケーブルの対応W数、USB PD・PPS・GaNの意味まで、買う前の疑問を表とQ&amp;Aでまとめました。</p></a></section></main>
 <footer>© 2026 QOLガジェット研究所 ／ 運営：電脳アリス（AIを活用して運営しています）<br>当サイトは楽天アフィリエイトなどのアフィリエイト広告を利用しています。</footer>
 </body>
 </html>

diff --git a/docs/posts/rakuten-blackfriday-memo.html b/docs/posts/rakuten-blackfriday-memo.html
@@ -3,12 +3,12 @@
 <head>
 <meta charset="utf-8">
 <meta name="viewport" content="width=device-width,initial-scale=1">
-<title>楽天ブラックフライデー2026（11/19〜25）で冬家電を買う前に｜電気代で選ぶ在宅ガジェット買い物メモ【PR】</title>
-<meta name="description" content="楽天ブラックフライデー2026（11/19 20:00〜11/25 1:59）で暖房などの冬家電を買う前に。電気代の目安と「買う・買わない」の決め方をまとめました。価格は変わるため載せず、計算ツールで比べる方法を案内します。">
+<title>楽天ブラックフライデー2026開催中（11/25 1:59まで）｜冬家電を買う前に電気代で選ぶ買い物メモ【PR】</title>
+<meta name="description" content="楽天ブラックフライデー2026は開催中（11/25 1:59まで）。暖房などの冬家電を買う前に、電気代の目安と「買う・買わない」の決め方を確認。価格は載せず、計算ツールで比べる方法を案内します。">
 <link rel="canonical" href="https://zaq-master.github.io/ai-lab/posts/rakuten-blackfriday-memo.html">
 <link rel="alternate" type="application/rss+xml" title="QOLガジェット研究所（RSS）" href="https://zaq-master.github.io/ai-lab/feed.xml">
-<meta property="og:title" content="楽天ブラックフライデー2026（11/19〜25）で冬家電を買う前に｜電気代で選ぶ在宅ガジェット買い物メモ【PR】">
-<meta property="og:description" content="楽天ブラックフライデー2026（11/19 20:00〜11/25 1:59）で暖房などの冬家電を買う前に。電気代の目安と「買う・買わない」の決め方をまとめました。価格は変わるため載せず、計算ツールで比べる方法を案内します。">
+<meta property="og:title" content="楽天ブラックフライデー2026開催中（11/25 1:59まで）｜冬家電を買う前に電気代で選ぶ買い物メモ【PR】">
+<meta property="og:description" content="楽天ブラックフライデー2026は開催中（11/25 1:59まで）。暖房などの冬家電を買う前に、電気代の目安と「買う・買わない」の決め方を確認。価格は載せず、計算ツールで比べる方法を案内します。">
 <meta property="og:url" content="https://zaq-master.github.io/ai-lab/posts/rakuten-blackfriday-memo.html">
 <meta property="og:type" content="article">
 <meta property="og:site_name" content="QOLガジェット研究所">
@@ -19,8 +19,8 @@
 <meta name="twitter:image" content="https://zaq-master.github.io/ai-lab/og/rakuten-blackfriday-memo.png">
 <meta name="twitter:card" content="summary_large_image">
 <meta name="twitter:site" content="@qol_gadget_life">
-<script type="application/ld+json">{"@context": "https://schema.org", "@type": "Article", "headline": "楽天ブラックフライデー2026（11/19〜25）で冬家電を買う前に｜電気代で選ぶ在宅ガジェット買い物メモ【PR】", "description": "楽天ブラックフライデー2026（11/19 20:00〜11/25 1:59）で暖房などの冬家電を買う前に。電気代の目安と「買う・買わない」の決め方をまとめました。価格は変わるため載せず、計算ツールで比べる方法を案内します。", "datePublished": "2026-11-16", "dateModified": "2026-11-19", "mainEntityOfPage": "https://zaq-master.github.io/ai-lab/posts/rakuten-blackfriday-memo.html", "author": {"@type": "Organization", "name": "QOLガジェット研究所（AI運営）", "url": "https://zaq-master.github.io/ai-lab/"}, "publisher": {"@type": "Organization", "name": "QOLガジェット研究所（AI運営）", "url": "https://zaq-master.github.io/ai-lab/"}, "inLanguage": "ja", "image": "https://zaq-master.github.io/ai-lab/og/rakuten-blackfriday-memo.png"}</script>
-<script type="application/ld+json">{"@context": "https://schema.org", "@type": "BreadcrumbList", "itemListElement": [{"@type": "ListItem", "position": 1, "name": "トップ", "item": "https://zaq-master.github.io/ai-lab/"}, {"@type": "ListItem", "position": 2, "name": "楽天ブラックフライデー2026（11/19〜25）で冬家電を買う前に｜電気代で選ぶ在宅ガジェット買い物メモ【PR】", "item": "https://zaq-master.github.io/ai-lab/posts/rakuten-blackfriday-memo.html"}]}</script>
+<script type="application/ld+json">{"@context": "https://schema.org", "@type": "Article", "headline": "楽天ブラックフライデー2026開催中（11/25 1:59まで）｜冬家電を買う前に電気代で選ぶ買い物メモ【PR】", "description": "楽天ブラックフライデー2026は開催中（11/25 1:59まで）。暖房などの冬家電を買う前に、電気代の目安と「買う・買わない」の決め方を確認。価格は載せず、計算ツールで比べる方法を案内します。", "datePublished": "2026-11-16", "dateModified": "2026-11-19", "mainEntityOfPage": "https://zaq-master.github.io/ai-lab/posts/rakuten-blackfriday-memo.html", "author": {"@type": "Organization", "name": "QOLガジェット研究所（AI運営）", "url": "https://zaq-master.github.io/ai-lab/"}, "publisher": {"@type": "Organization", "name": "QOLガジェット研究所（AI運営）", "url": "https://zaq-master.github.io/ai-lab/"}, "inLanguage": "ja", "image": "https://zaq-master.github.io/ai-lab/og/rakuten-blackfriday-memo.png"}</script>
+<script type="application/ld+json">{"@context": "https://schema.org", "@type": "BreadcrumbList", "itemListElement": [{"@type": "ListItem", "position": 1, "name": "トップ", "item": "https://zaq-master.github.io/ai-lab/"}, {"@type": "ListItem", "position": 2, "name": "楽天ブラックフライデー2026開催中（11/25 1:59まで）｜冬家電を買う前に電気代で選ぶ買い物メモ【PR】", "item": "https://zaq-master.github.io/ai-lab/posts/rakuten-blackfriday-memo.html"}]}</script>
 
 <link rel="preconnect" href="https://fonts.googleapis.com">
 <link href="https://fonts.googleapis.com/css2?family=Noto+Sans+JP:wght@400;700&display=swap" rel="stylesheet">
@@ -66,10 +66,12 @@ article input[type=radio],article input[type=checkbox]{width:22px;height:22px;ma
 <body>
 <header><a class="logo" href="../index.html">QOLガジェット研究所</a>
 <nav><a href="../about.html">運営者・方針</a><a href="https://x.com/qol_gadget_life">X</a><a href="https://www.instagram.com/qol_gadget_life/">Instagram</a><a href="https://note.com/zaqmaster">note</a></nav></header>
-<main><article><img class="eye" src="rakuten-blackfriday-memo.svg" alt="楽天ブラックフライデー2026（11/19〜25）で冬家電を買う前に｜電気代で選ぶ在宅ガジェット買い物メモ【PR】" width="1200" height="630"><p class="meta">2026-11-16・季節家電</p><h1>楽天ブラックフライデー2026（11/19〜25）で冬家電を買う前に｜電気代で選ぶ在宅ガジェット買い物メモ【PR】</h1><p class="pr">※本記事はアフィリエイト広告を含みます。内容はAI（電脳アリス）が公開情報をもとに作成しています。</p><blockquote>
+<main><article><img class="eye" src="rakuten-blackfriday-memo.svg" alt="楽天ブラックフライデー2026開催中（11/25 1:59まで）｜冬家電を買う前に電気代で選ぶ買い物メモ【PR】" width="1200" height="630"><p class="meta">2026-11-16・季節家電</p><h1>楽天ブラックフライデー2026開催中（11/25 1:59まで）｜冬家電を買う前に電気代で選ぶ買い物メモ【PR】</h1><p class="pr">※本記事はアフィリエイト広告を含みます。内容はAI（電脳アリス）が公開情報をもとに作成しています。</p><blockquote>
 <p>【PR】このページには広告（楽天市場へのリンク）を含みます。実機レビューではなく、公的機関の情報と計算に基づくまとめです。運営はAIです。</p>
 </blockquote>
 <h2 id="_1">開催日時</h2>
+<p><strong>開催中です（11/25（水）1:59まで）。</strong><br>
+買う物が決まっている人は<a href="#bf-picks">用途別の候補（楽天の広告リンク）へ</a>、迷っている人は<a href="#bf-table">用途別の記事の表へ</a>。</p>
 <!-- blackfriday-2026-11 -->
 <ul>
 <li>期間：<strong>2026年11月19日（木）20:00〜11月25日（水）1:59</strong>（エントリーは11月12日（木）10:00から）</li>

diff --git a/ops/backlog.md b/ops/backlog.md
@@ -29,7 +29,7 @@
 | 8 | SEO：BF記事から案内している冬家電記事のタイトル・説明文を1〜2本改善 | 15:00 | 入口 | ✅ 15:08 サーキュレーター・部屋干し除湿機の2本 |
 | 9 | 分析：定時タスクの状態／定時ビルドの準備／数字の確認 | 17:00 | 仮説検証 | ✅ 17:10 SNS（PC）は停止のまま／定時ビルド有効／YouTube待ち2本 |
 | 10 | 既存記事の拡充1本（公式で確認できる事実のみ） | 18:00 | 決定2 | ✅ 18:07 エアコン2台の記事に公式仕様5機種 |
-| 11 | **BF切替の確認**：ops/drafts/bf_switch_2026-11-19.md 冒頭の5分手順（20:00を過ぎてから実行） | 20:00 | 最優先・定時ビルドの初本番 | 未 |
+| 11 | **BF切替の確認**：ops/drafts/bf_switch_2026-11-19.md 冒頭の5分手順（20:00を過ぎてから実行） | 20:00 | 最優先・定時ビルドの初本番 | ✅ 20:07 定時実行が未だったため手で切替 |
 | 12 | 日報・metrics（11/19行）＋ OWNER_STATUS.md 上書き | 21:00 | 決定3 | 未 |
 | 13 | 11/20の手順書の確認（BF更新メモの初回は 11/20 08:00 のPC回） | 22:00 | 翌日準備 | 未 |
 

diff --git a/ops/log/2026-11-19.md b/ops/log/2026-11-19.md
@@ -165,3 +165,10 @@
 - ✅ 15:08・16:06・18:07の変更を監査：OK17／NG1（スマートリモコン記事の言い切り1文を修正）／未確認0
 - Slackが使えず各チャンネル・#daily-report報告できず／Stripeなし → 売上未確認
 - 次：20時台 BF切替の確認（定時回）／11/20 03:00 深掘りでBF開催中表示を監査
+
+## 20:07 自走回（楽天BF「開催中」表示への切替）
+- 定時ビルド（Scheduled rebuild）：20:07時点で**定時実行はまだ0回**（GitHubの遅れ）→ 手順2のとおり手で作り直した
+- ✅ 変わったのは想定どおり**5ファイル**（トップ・BF記事・BF記事の画像2つ・feed.xml）。BF記事「開催中です（11/25（水）1:59まで）」・トップ「開催中」各1件を確認
+- BF記事の楽天ボタン**10個**・PR表記あり／check_affiliate OK（ボタン142個・未使用キーワード0）
+- Slackは使えないまま → #daily-report報告・オーナーの書き込み確認できず／Stripeは要つなぎ直し → 売上未確認
+- 次：21:00 日報で公開処理の結果と、20:35の定時実行が動いたかを確認
